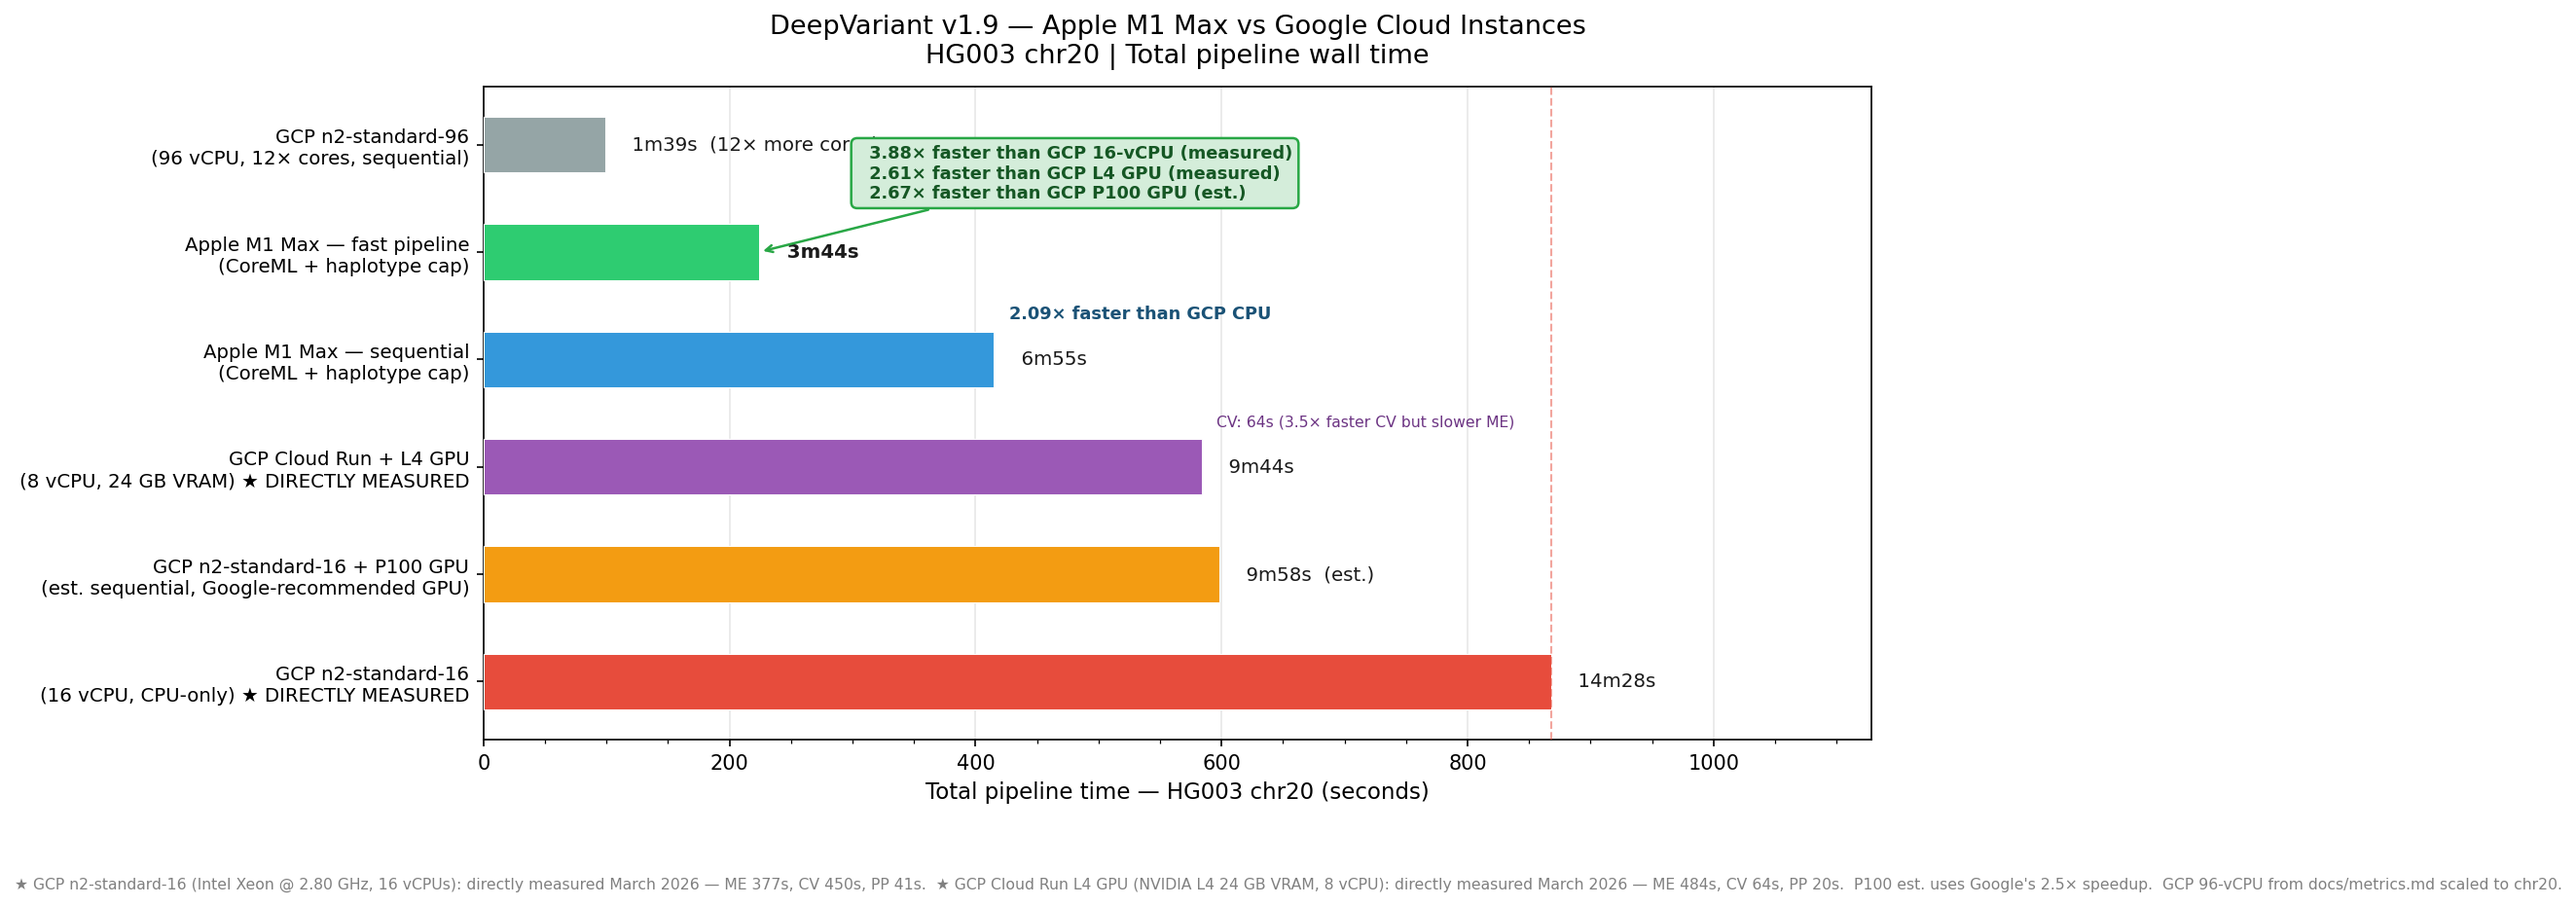
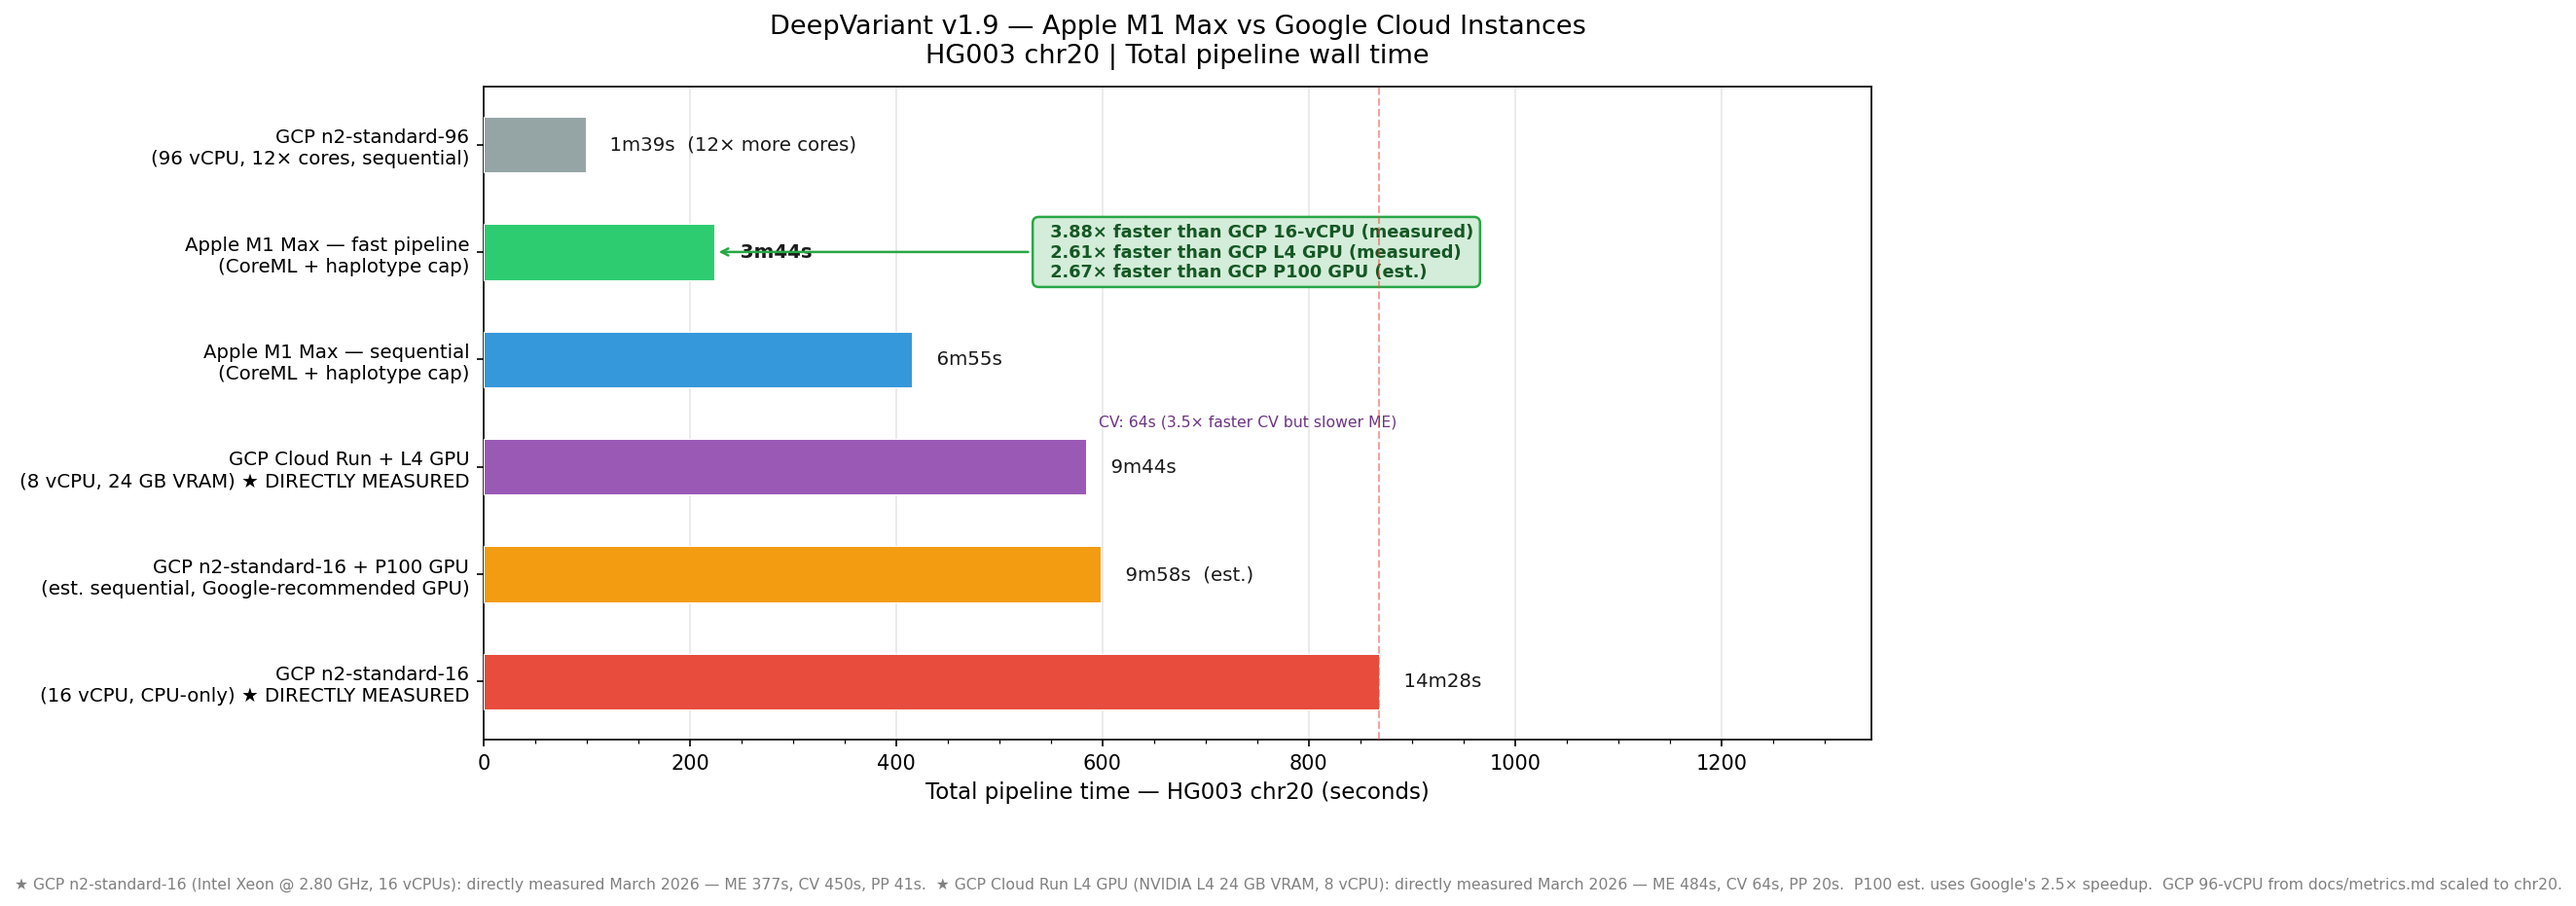
Fix overlapping callout box in platform comparison chart
Move speedup annotation to the right of the M1 Max fast pipeline bar
at the same row (x=62% of GCP CPU baseline, same y). Remove the
separate sequential speedup text to eliminate overlap. Expand x-axis
to 1.55× to give the callout box clear space.

diff --git a/scripts/generate_readme_charts.py b/scripts/generate_readme_charts.py
@@ -235,23 +235,20 @@ def plot_platform_comparison(output_path, show=False, dpi=150):
     speedup_l4  = GCP_L4_TOTAL / FAST_PIPELINE_TOTAL             # M1 vs L4 total
     speedup_gpu = GCP_16_GPU_EST / FAST_PIPELINE_TOTAL           # M1 vs P100 est.
 
-    # Callout box for fast pipeline
+    # Callout box — placed to the right of the M1 Max fast pipeline bar at the same row.
+    # xlim is expanded to 1.55× GCP-CPU to give enough room for the box without crowding.
     ax.annotate(
         f"  {speedup_fp:.2f}× faster than GCP 16-vCPU (measured)\n"
         f"  {speedup_l4:.2f}× faster than GCP L4 GPU (measured)\n"
         f"  {speedup_gpu:.2f}× faster than GCP P100 GPU (est.)",
         xy=(FAST_PIPELINE_TOTAL, fp_idx),
-        xytext=(GCP_16_CHR20_MEASURED * 0.35, fp_idx - 0.5),
+        xytext=(GCP_16_CHR20_MEASURED * 0.62, fp_idx),
         fontsize=8.5, fontweight="bold", color="#155724",
+        va="center",
         bbox=dict(boxstyle="round,pad=0.35", facecolor="#d4edda",
                   edgecolor="#28a745", linewidth=1.2),
         arrowprops=dict(arrowstyle="->", color="#28a745", lw=1.2),
     )
-
-    # Sequential speedup
-    ax.text(m1_sequential + 12, seq_idx - 0.38,
-            f"{speedup_seq:.2f}× faster than GCP CPU",
-            fontsize=8.5, color="#1a5276", fontweight="bold")
 
     # L4 GPU note — call_variants comparison
     cv_speedup_l4 = GCP_L4_CV / (STEPS[1]["cv"])  # L4 CV / M1 Metal CV = faster
@@ -265,7 +262,7 @@ def plot_platform_comparison(output_path, show=False, dpi=150):
 
     ax.set_xlabel("Total pipeline time — HG003 chr20 (seconds)", fontsize=11)
     ax.xaxis.set_minor_locator(ticker.AutoMinorLocator())
-    ax.set_xlim(0, GCP_16_CHR20_MEASURED * 1.30)
+    ax.set_xlim(0, GCP_16_CHR20_MEASURED * 1.55)
     ax.grid(axis="x", alpha=0.3, zorder=0)
     ax.set_axisbelow(True)
 
